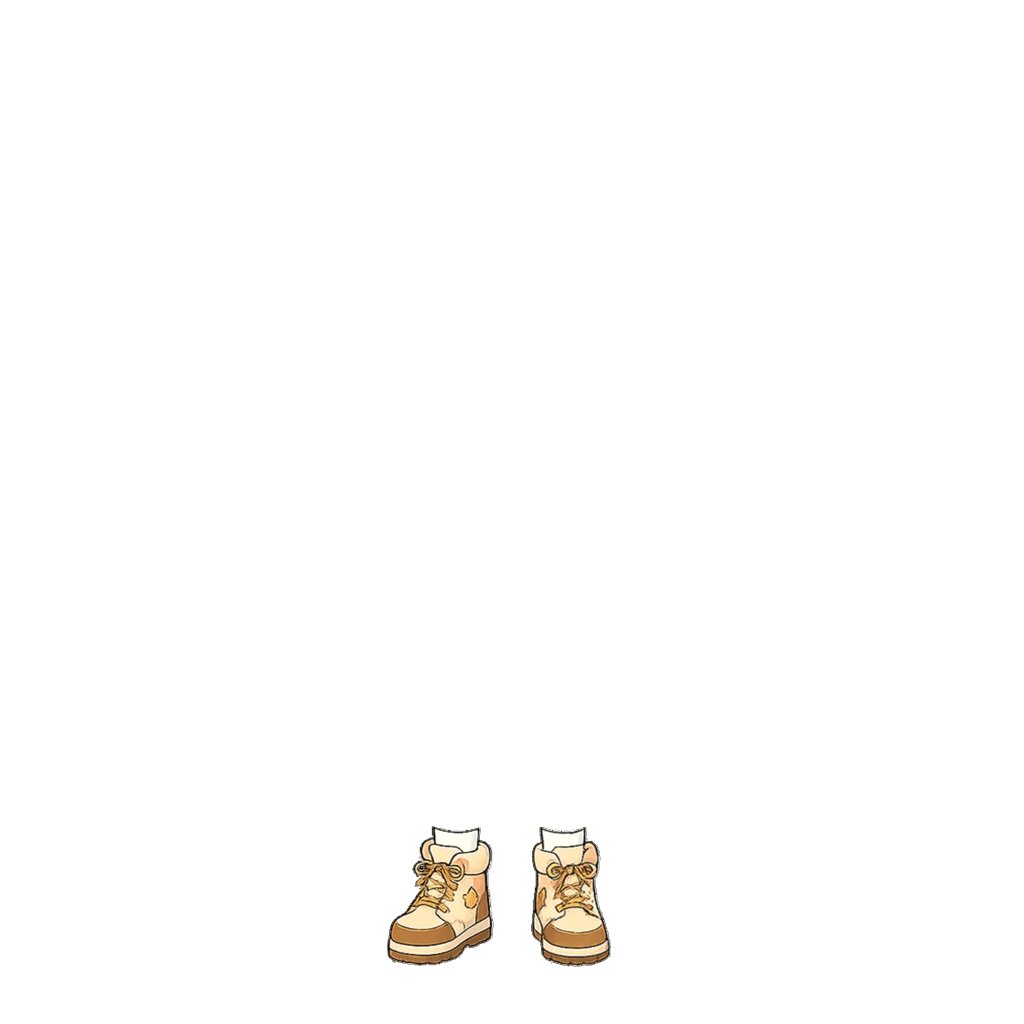
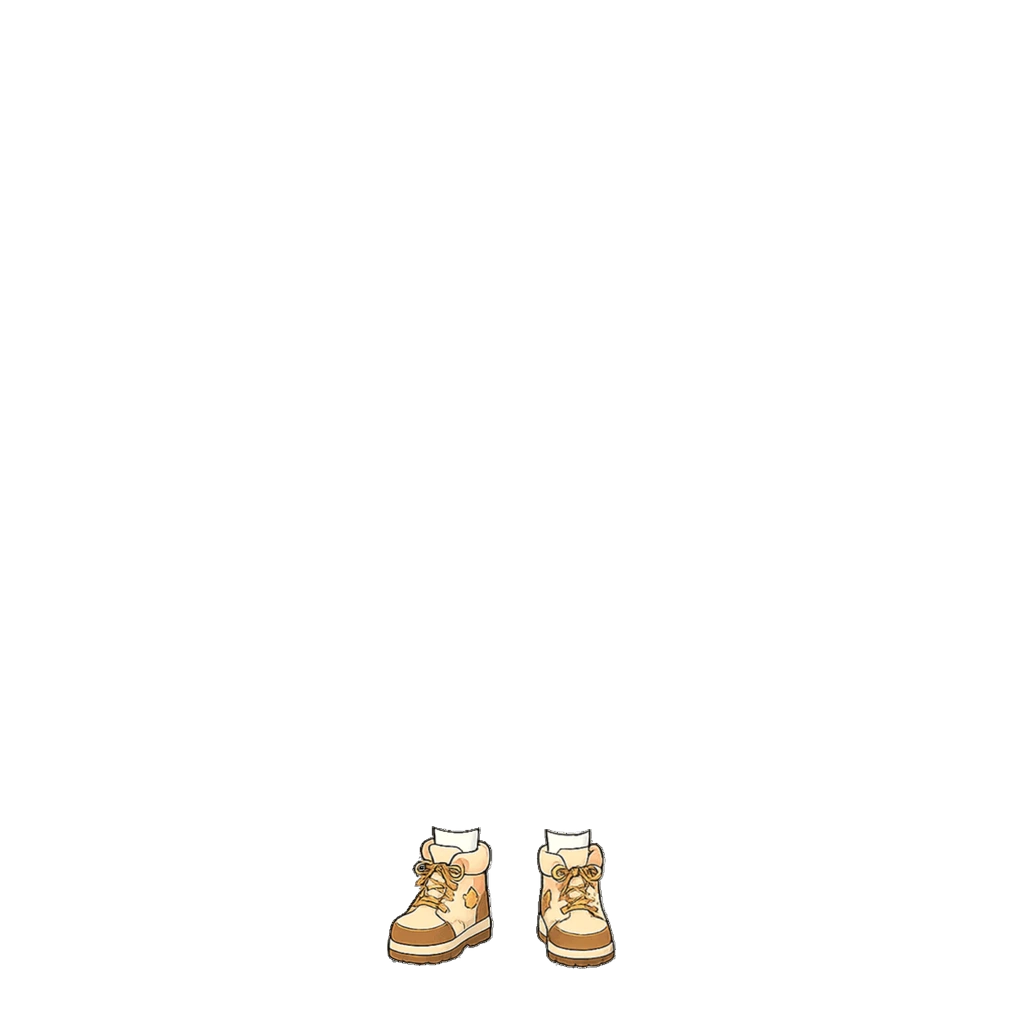
fix: 여아 크림 부츠 오른발 위치 — 남아 값 그대로 쓰던 것을 따로 맞춤
여아 크림 오른발만 조정 없이 남아 값(571/966)이 그대로 들어가 있었다.
사용자와 맞춰 576/968로 확정했다 (오른쪽 5px · 아래 2px).

  여아 크림 : 좌 440/965 · 우 576/968

밑창이 966→968로 내려가 접지 그림자 기준(soleYGirl)도 968로 맞췄다.
실제 앱 확인 — cream-boots-girl.webp 로딩, 그림자 bottom 7px.
vite build 통과. README 좌표표도 갱신.

Claude-Session: https://claude.ai/code/session_018maNuYqDfFyRSe9uKpZhPR

Changed region(s): [[0.5, 0.8125, 0.625, 0.9688]]

diff --git a/src/data/avatarEquipment.js b/src/data/avatarEquipment.js
@@ -132,7 +132,7 @@ export const AVATAR_CATALOG = [
      (맨발보다 30~45px 아래라, 안 쓰면 신발만 그림자 밖으로 나간다). */
   { id: "shoes_boots",    slot: "shoes", label: "탐험 부츠",   emoji: "🥾", price: 80,  rarity: "common", theme: "adventure", img: "assets/avatar/shoes/explorer-boots.webp", imgGirl: "assets/avatar/shoes/explorer-boots-girl.webp", soleY: 966, soleYGirl: 981, thumb: "assets/avatar/thumb/shoes_boots.webp" },
   { id: "shoes_boots_green", slot: "shoes", label: "새싹 부츠", emoji: "🌱", price: 100, rarity: "common", theme: "adventure", img: "assets/avatar/shoes/green-boots.webp",    imgGirl: "assets/avatar/shoes/green-boots-girl.webp",    soleY: 966, soleYGirl: 981, thumb: "assets/avatar/thumb/shoes_boots_green.webp" },
-  { id: "shoes_boots_sand", slot: "shoes", label: "크림 부츠", emoji: "🍦", price: 120, rarity: "common", theme: "adventure", img: "assets/avatar/shoes/cream-boots.webp",    imgGirl: "assets/avatar/shoes/cream-boots-girl.webp",    soleY: 966, soleYGirl: 966, thumb: "assets/avatar/thumb/shoes_boots_sand.webp" },
+  { id: "shoes_boots_sand", slot: "shoes", label: "크림 부츠", emoji: "🍦", price: 120, rarity: "common", theme: "adventure", img: "assets/avatar/shoes/cream-boots.webp",    imgGirl: "assets/avatar/shoes/cream-boots-girl.webp",    soleY: 966, soleYGirl: 968, thumb: "assets/avatar/thumb/shoes_boots_sand.webp" },
   { id: "neck_scarf",     slot: "neck",  label: "빨간 스카프", emoji: "🧣", price: 90,  rarity: "common", theme: "adventure", img: "assets/avatar/neck/red-scarf.webp" },
   /* 탐험 배낭 — 원화가 '앞에서 본 어깨끈'(침낭 롤 + 버클 + 칼집)이라 캐릭터 뒤(z15)에 그리면
      몸통에 완전히 가려진다. 그래서 이 아이템만 z를 상의(35) 위·목장식(40) 아래로 올린다. */

diff --git a/art-src/README.md b/art-src/README.md
@@ -42,7 +42,7 @@ ChatGPT로 생성한 **가공 전 원본 이미지**를 보관한다. 배포(dis
 |---|---|---|---|---|
 | 탐험 | 432 / 963 | 578 / 966 | 434 / 978 | 582 / 981 |
 | 새싹 | 432 / 963 | 578 / 966 | 434 / 978 | 582 / 981 |
-| 크림 | 437 / 963 | 571 / 966 | 440 / 965 | 571 / 966 |
+| 크림 | 437 / 963 | 571 / 966 | 440 / 965 | 576 / 968 |
 
 **접지 그림자는 신발을 따라간다** — 밑창이 맨발 바닥(남 934·여 936)보다 30~45px 아래라,
 그림자를 고정하면 신발만 그림자 밖으로 나간다. 카탈로그 아이템의 `soleY`/`soleYGirl`을
